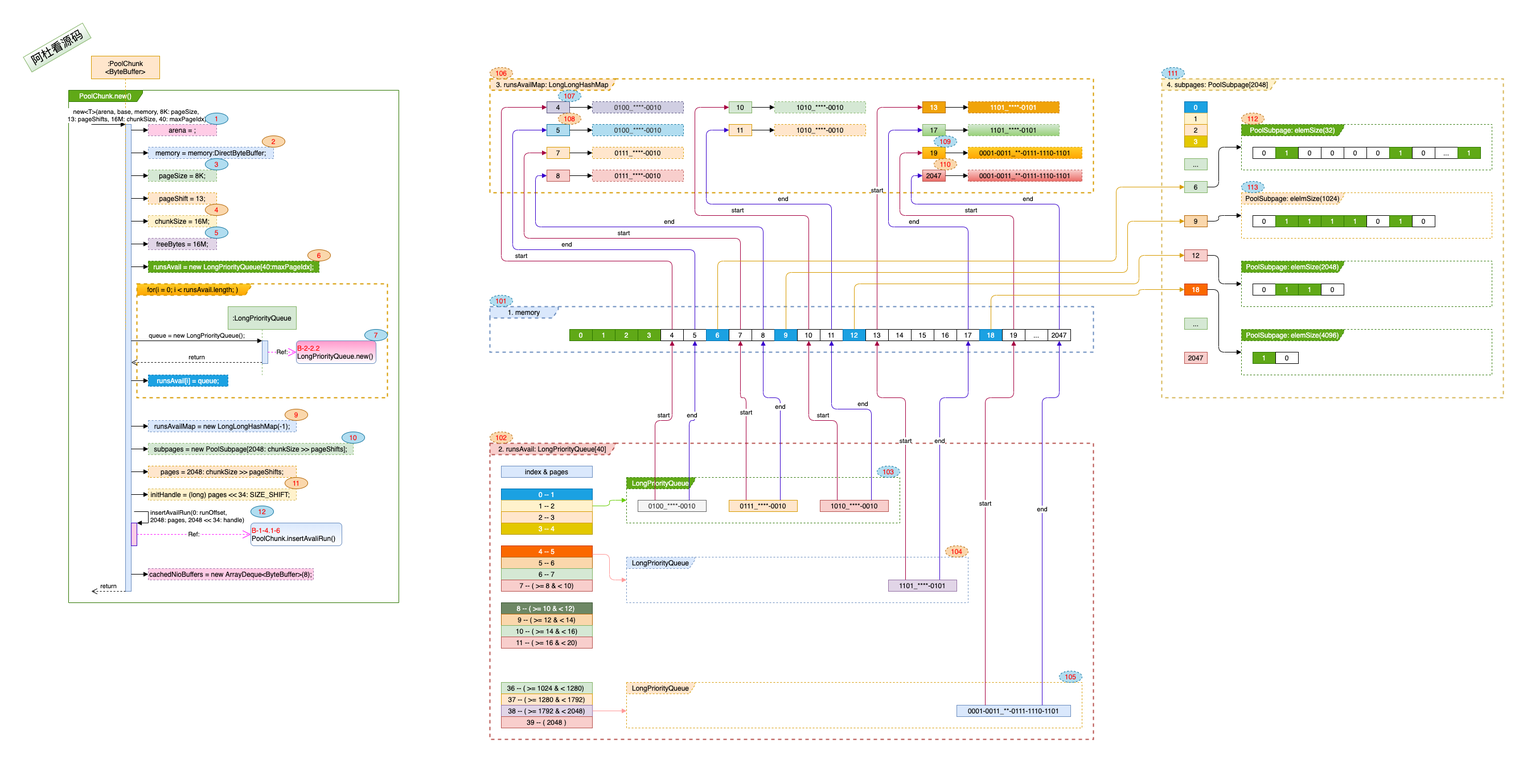
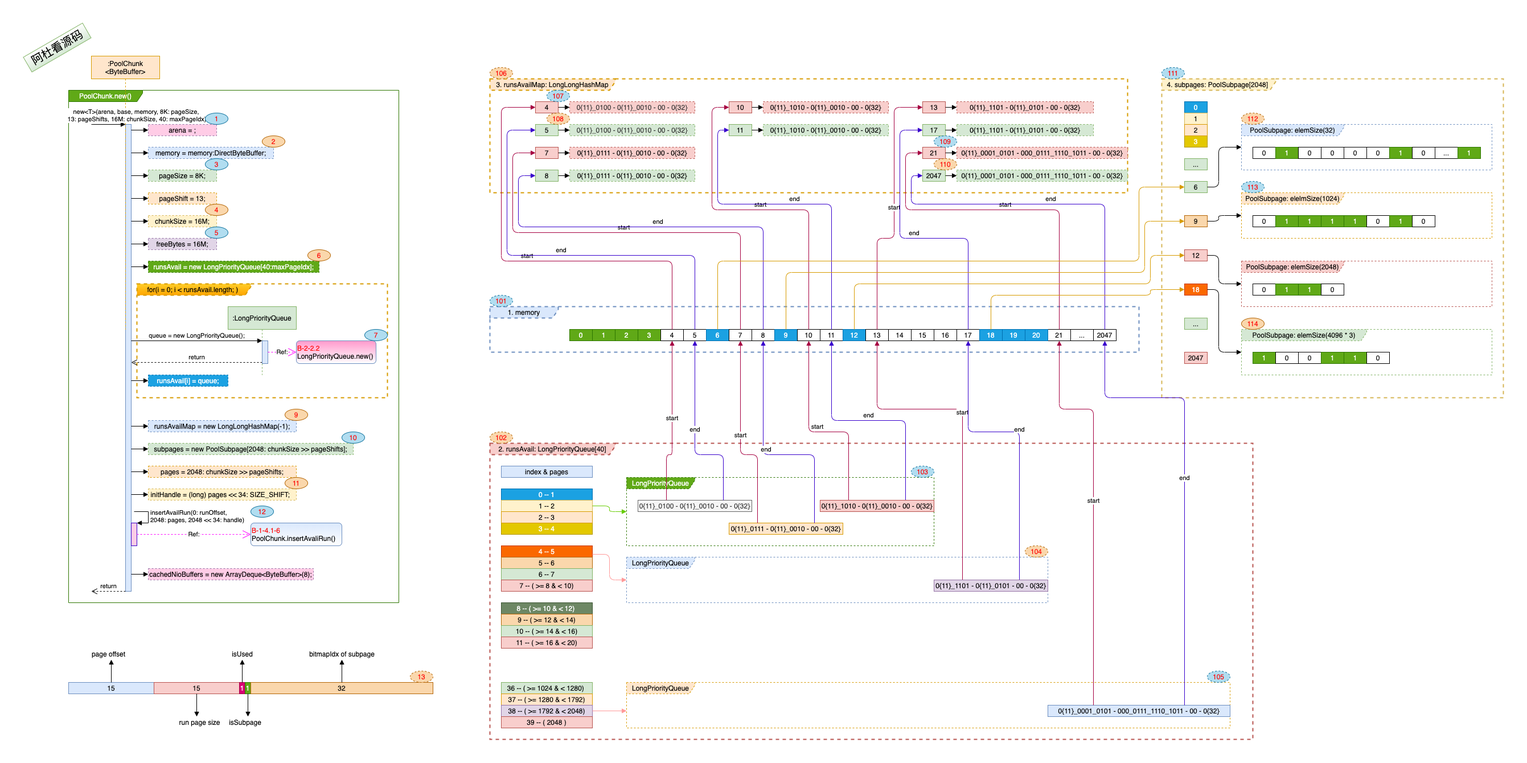
1. PoolChunk 数据结构部分大体完成.

diff --git a/netty_4.1.63/3.PoolChunk.html b/netty_4.1.63/3.PoolChunk.html
@@ -717,6 +717,6 @@ img {
 </style><title>3.PoolChunk</title>
 </head>
 <body class='typora-export'><div class='typora-export-content'>
-<div id='write'  class=''><h2 id='nettypooledbytebuf3poolchunk'><span>Netty_PooledByteBuf_3.PoolChunk</span></h2><h3 id='一-干什么'><span>一. 干什么?</span></h3><p><span>	</span><span>PoolChunk 是来管理一个楼层中的房间的, 就像个楼主. 概括起来如下: </span></p><ol start='' ><li><p><span>根据面积需求, 是给分配独立的区域还是共享区域.</span></p></li><li><p><span>不管是独立还是共享区域下面积的分配与回收.</span></p></li><li><p><span>管理的面积这么大, 怎么样可以让分配与回收的效率更高. </span></p><p>&nbsp;</p></li></ol><h3 id='二-打算怎么干'><span>二. 打算怎么干? </span></h3><ol start='' ><li><p><span>根据设定的阀值, 来区分是分配独立区域还是共享区域.</span></p></li><li><p><span>对外提供统一接口进行面积的分配与回收.</span></p></li><li><p><span>独立区域和共享区域都有唯一的门牌号并记录在案, 直接在账本上进行登入登出.</span></p><p>&nbsp;</p></li></ol><h3 id='三-具体实现'><span>三. 具体实现:</span></h3><ol start='' ><li><p><span>是分配独立区域还是共享区域?</span></p><blockquote><ul><li><span>需要的面积 &lt;= 16K + 12K (28K)时, 跟其它人一起共享, 在</span><em><span>PoolSubpage</span></em><span>里. </span></li><li><span>&gt;</span><span> 28K时, 大客户, 给独立的连续房间, 在</span><em><span>Run</span></em><span>里. </span></li></ul><div class="md-diagram-panel md-fences-adv-panel"><svg id="mermaidChart6" width="100%" xmlns="http://www.w3.org/2000/svg" xmlns:xlink="http://www.w3.org/1999/xlink" height="406.31561279296875" style="max-width: 242px; height: 446.31561279296875px;" viewBox="-8 -8 242 406.31561279296875" class="md-require-zoom-fix"><style>#mermaidChart6{font-family:sans-serif;font-size:16px;fill:#333;}#mermaidChart6 .error-icon{fill:#552222;}#mermaidChart6 .error-text{fill:#552222;stroke:#552222;}#mermaidChart6 .edge-thickness-normal{stroke-width:2px;}#mermaidChart6 .edge-thickness-thick{stroke-width:3.5px;}#mermaidChart6 .edge-pattern-solid{stroke-dasharray:0;}#mermaidChart6 .edge-pattern-dashed{stroke-dasharray:3;}#mermaidChart6 .edge-pattern-dotted{stroke-dasharray:2;}#mermaidChart6 .marker{fill:#333333;}#mermaidChart6 .marker.cross{stroke:#333333;}#mermaidChart6 svg{font-family:sans-serif;font-size:16px;}#mermaidChart6 .label{font-family:sans-serif;color:#333;}#mermaidChart6 .label text{fill:#333;}#mermaidChart6 .node rect,#mermaidChart6 .node circle,#mermaidChart6 .node ellipse,#mermaidChart6 .node polygon,#mermaidChart6 .node path{fill:#ECECFF;stroke:#9370DB;stroke-width:1px;}#mermaidChart6 .node .label{text-align:center;}#mermaidChart6 .node.clickable{cursor:pointer;}#mermaidChart6 .arrowheadPath{fill:#333333;}#mermaidChart6 .edgePath .path{stroke:#333333;stroke-width:1.5px;}#mermaidChart6 .flowchart-link{stroke:#333333;fill:none;}#mermaidChart6 .edgeLabel{background-color:#e8e8e8;text-align:center;}#mermaidChart6 .edgeLabel rect{opacity:0.5;background-color:#e8e8e8;fill:#e8e8e8;}#mermaidChart6 .cluster rect{fill:#ffffde;stroke:#aaaa33;stroke-width:1px;}#mermaidChart6 .cluster text{fill:#333;}#mermaidChart6 div.mermaidTooltip{position:absolute;text-align:center;max-width:200px;padding:2px;font-family:sans-serif;font-size:12px;background:hsl(80,100%,96.2745098039%);border:1px solid #aaaa33;border-radius:2px;pointer-events:none;z-index:100;}#mermaidChart6:root{--mermaid-font-family:sans-serif;}#mermaidChart6:root{--mermaid-alt-font-family:sans-serif;}#mermaidChart6 flowchart{fill:apa;}</style><g><g class="output"><g class="clusters"></g><g class="edgePaths"><g class="edgePath LS-A LE-C" id="L-A-C" style="opacity: 1;"><path class="path" d="M117,53L117,78L117.49999999999999,103.50000152587887" marker-end="url(#arrowhead117)" style="fill:none"></path><defs><marker id="arrowhead117" viewBox="0 0 10 10" refX="9" refY="5" markerUnits="strokeWidth" markerWidth="8" markerHeight="6" orient="auto"><path d="M 0 0 L 10 5 L 0 10 z" class="arrowheadPath" style="stroke-width: 1px; stroke-dasharray: 1px, 0px;"></path></marker></defs></g><g class="edgePath LS-C LE-D" id="L-C-D" style="opacity: 1;"><path class="path" d="M87.71078573580213,241.02641226168106L50,307.8156280517578L50,345.3156280517578" marker-end="url(#arrowhead118)" style="fill:none"></path><defs><marker id="arrowhead118" viewBox="0 0 10 10" refX="9" refY="5" markerUnits="strokeWidth" markerWidth="8" markerHeight="6" orient="auto"><path d="M 0 0 L 10 5 L 0 10 z" class="arrowheadPath" style="stroke-width: 1px; stroke-dasharray: 1px, 0px;"></path></marker></defs></g><g class="edgePath LS-C LE-E" id="L-C-E" style="opacity: 1;"><path class="path" d="M147.28921317751553,241.0264102966056L184,307.8156280517578L184,345.3156280517578" marker-end="url(#arrowhead119)" style="fill:none"></path><defs><marker id="arrowhead119" viewBox="0 0 10 10" refX="9" refY="5" markerUnits="strokeWidth" markerWidth="8" markerHeight="6" orient="auto"><path d="M 0 0 L 10 5 L 0 10 z" class="arrowheadPath" style="stroke-width: 1px; stroke-dasharray: 1px, 0px;"></path></marker></defs></g></g><g class="edgeLabels"><g class="edgeLabel" transform="" style="opacity: 1;"><g transform="translate(0,0)" class="label"><rect rx="0" ry="0" width="0" height="0"></rect><foreignObject width="0" height="0"><div xmlns="http://www.w3.org/1999/xhtml" style="display: inline-block; white-space: nowrap;"><span></span></div></foreignObject></g></g><g class="edgeLabel" transform="translate(50,307.8156280517578)" style="opacity: 1;"><g transform="translate(-25.8046875,-12.5)" class="label"><rect rx="0" ry="0" width="51.609375" height="25"></rect><foreignObject width="51.609375" height="25"><div xmlns="http://www.w3.org/1999/xhtml" style="display: inline-block; white-space: nowrap;"><span>&lt;= 28K</span></div></foreignObject></g></g><g class="edgeLabel" transform="translate(184,307.8156280517578)" style="opacity: 1;"><g transform="translate(-21.1328125,-12.5)" class="label"><rect rx="0" ry="0" width="42.265625" height="25"></rect><foreignObject width="42.265625" height="25"><div xmlns="http://www.w3.org/1999/xhtml" style="display: inline-block; white-space: nowrap;"><span>&gt; 28K</span></div></foreignObject></g></g></g><g class="nodes"><g class="node default" id="flowchart-A-143" transform="translate(117,30.5)" style="opacity: 1;"><rect rx="0" ry="0" x="-44.2265625" y="-22.5" width="88.453125" height="45" class="label-container" style="fill:pink;stroke:#333;stroke-width:1px    ;"></rect><g class="label" transform="translate(0,0)"><g transform="translate(-34.2265625,-12.5)"><foreignObject width="68.453125" height="25"><div xmlns="http://www.w3.org/1999/xhtml" style="display: inline-block; white-space: nowrap;">客户来啦!</div></foreignObject></g></g></g><g class="node default" id="flowchart-C-145" transform="translate(117,186.6578140258789)" style="opacity: 1;"><polygon points="83.6578125,0 167.315625,-83.6578125 83.6578125,-167.315625 0,-83.6578125" transform="translate(-83.6578125,83.6578125)" class="label-container" style="fill:#bbf;stroke:#f66;stroke-width:1px;stroke-dasharray: 4 8;"></polygon><g class="label" transform="translate(0,0)"><g style="color:#fff;" transform="translate(-60.453125,-12.5)"><foreignObject width="120.90625" height="25"><div xmlns="http://www.w3.org/1999/xhtml" style="display: inline-block; white-space: nowrap;">您需要多大空间?</div></foreignObject></g></g></g><g class="node default" id="flowchart-D-147" transform="translate(50,367.8156280517578)" style="opacity: 1;"><rect rx="0" ry="0" x="-42" y="-22.5" width="84" height="45" class="label-container" style="fill:orange;stroke:#333;stroke-width:1px  ;"></rect><g class="label" transform="translate(0,0)"><g transform="translate(-32,-12.5)"><foreignObject width="64" height="25"><div xmlns="http://www.w3.org/1999/xhtml" style="display: inline-block; white-space: nowrap;">共享区域</div></foreignObject></g></g></g><g class="node default" id="flowchart-E-149" transform="translate(184,367.8156280517578)" style="opacity: 1;"><rect rx="0" ry="0" x="-42" y="-22.5" width="84" height="45" class="label-container" style="fill:;stroke:#333;stroke-width:1px ;"></rect><g class="label" transform="translate(0,0)"><g transform="translate(-32,-12.5)"><foreignObject width="64" height="25"><div xmlns="http://www.w3.org/1999/xhtml" style="display: inline-block; white-space: nowrap;">独享空间</div></foreignObject></g></g></g></g></g></g></svg></div></blockquote></li><li><p><span>分配与回收之前, 先来看一下PoolChunk初始化的数据结构.</span></p><p><img src="./images/3.PooledByteBufAllocator/2.DataStructure-2.1.PoolChunk.png" referrerpolicy="no-referrer"></p></li></ol></div></div>
+<div id='write'  class=''><h2 id='nettypooledbytebuf3poolchunk'><span>Netty_PooledByteBuf_3.PoolChunk</span></h2><h3 id='一-干什么'><span>一. 干什么?</span></h3><p><span>	</span><span>PoolChunk 是来管理一个楼层中的房间的, 就像个楼主. 概括起来如下: </span></p><ol start='' ><li><p><span>根据面积需求, 是给分配独立的区域还是共享区域.</span></p></li><li><p><span>不管是独立还是共享区域下面积的分配与回收.</span></p></li><li><p><span>管理的面积这么大, 怎么样可以让分配与回收的效率更高. </span></p><p>&nbsp;</p></li></ol><h3 id='二-打算怎么干'><span>二. 打算怎么干? </span></h3><ol start='' ><li><p><span>根据设定的阀值, 来区分是分配独立区域还是共享区域.</span></p></li><li><p><span>对外提供统一接口进行面积的分配与回收.</span></p></li><li><p><span>独立区域和共享区域都有唯一的门牌号并记录在案, 直接在账本上进行登入登出.</span></p><p>&nbsp;</p></li></ol><h3 id='三-具体实现'><span>三. 具体实现:</span></h3><ol start='' ><li><h4 id='是分配独立区域还是共享区域'><span>是分配独立区域还是共享区域?</span></h4><blockquote><ul><li><span>需要的面积 &lt;= 16K + 12K (28K)时, 跟其它人一起共享, 在</span><em><span>PoolSubpage</span></em><span>里. </span></li><li><span>&gt;</span><span> 28K时, 大客户, 给独立的连续房间, 在</span><em><span>Run</span></em><span>里. </span></li></ul><div class="md-diagram-panel md-fences-adv-panel"><svg id="mermaidChart3" width="100%" xmlns="http://www.w3.org/2000/svg" xmlns:xlink="http://www.w3.org/1999/xlink" height="406.31561279296875" style="max-width: 242px; height: 446.31561279296875px;" viewBox="-8 -8 242 406.31561279296875" class="md-require-zoom-fix"><style>#mermaidChart3{font-family:sans-serif;font-size:16px;fill:#333;}#mermaidChart3 .error-icon{fill:#552222;}#mermaidChart3 .error-text{fill:#552222;stroke:#552222;}#mermaidChart3 .edge-thickness-normal{stroke-width:2px;}#mermaidChart3 .edge-thickness-thick{stroke-width:3.5px;}#mermaidChart3 .edge-pattern-solid{stroke-dasharray:0;}#mermaidChart3 .edge-pattern-dashed{stroke-dasharray:3;}#mermaidChart3 .edge-pattern-dotted{stroke-dasharray:2;}#mermaidChart3 .marker{fill:#333333;}#mermaidChart3 .marker.cross{stroke:#333333;}#mermaidChart3 svg{font-family:sans-serif;font-size:16px;}#mermaidChart3 .label{font-family:sans-serif;color:#333;}#mermaidChart3 .label text{fill:#333;}#mermaidChart3 .node rect,#mermaidChart3 .node circle,#mermaidChart3 .node ellipse,#mermaidChart3 .node polygon,#mermaidChart3 .node path{fill:#ECECFF;stroke:#9370DB;stroke-width:1px;}#mermaidChart3 .node .label{text-align:center;}#mermaidChart3 .node.clickable{cursor:pointer;}#mermaidChart3 .arrowheadPath{fill:#333333;}#mermaidChart3 .edgePath .path{stroke:#333333;stroke-width:1.5px;}#mermaidChart3 .flowchart-link{stroke:#333333;fill:none;}#mermaidChart3 .edgeLabel{background-color:#e8e8e8;text-align:center;}#mermaidChart3 .edgeLabel rect{opacity:0.5;background-color:#e8e8e8;fill:#e8e8e8;}#mermaidChart3 .cluster rect{fill:#ffffde;stroke:#aaaa33;stroke-width:1px;}#mermaidChart3 .cluster text{fill:#333;}#mermaidChart3 div.mermaidTooltip{position:absolute;text-align:center;max-width:200px;padding:2px;font-family:sans-serif;font-size:12px;background:hsl(80,100%,96.2745098039%);border:1px solid #aaaa33;border-radius:2px;pointer-events:none;z-index:100;}#mermaidChart3:root{--mermaid-font-family:sans-serif;}#mermaidChart3:root{--mermaid-alt-font-family:sans-serif;}#mermaidChart3 flowchart{fill:apa;}</style><g><g class="output"><g class="clusters"></g><g class="edgePaths"><g class="edgePath LS-A LE-C" id="L-A-C" style="opacity: 1;"><path class="path" d="M117,53L117,78L117.49999999999999,103.50000152587887" marker-end="url(#arrowhead66)" style="fill:none"></path><defs><marker id="arrowhead66" viewBox="0 0 10 10" refX="9" refY="5" markerUnits="strokeWidth" markerWidth="8" markerHeight="6" orient="auto"><path d="M 0 0 L 10 5 L 0 10 z" class="arrowheadPath" style="stroke-width: 1px; stroke-dasharray: 1px, 0px;"></path></marker></defs></g><g class="edgePath LS-C LE-D" id="L-C-D" style="opacity: 1;"><path class="path" d="M87.71078573580213,241.02641226168106L50,307.8156280517578L50,345.3156280517578" marker-end="url(#arrowhead67)" style="fill:none"></path><defs><marker id="arrowhead67" viewBox="0 0 10 10" refX="9" refY="5" markerUnits="strokeWidth" markerWidth="8" markerHeight="6" orient="auto"><path d="M 0 0 L 10 5 L 0 10 z" class="arrowheadPath" style="stroke-width: 1px; stroke-dasharray: 1px, 0px;"></path></marker></defs></g><g class="edgePath LS-C LE-E" id="L-C-E" style="opacity: 1;"><path class="path" d="M147.28921317751553,241.0264102966056L184,307.8156280517578L184,345.3156280517578" marker-end="url(#arrowhead68)" style="fill:none"></path><defs><marker id="arrowhead68" viewBox="0 0 10 10" refX="9" refY="5" markerUnits="strokeWidth" markerWidth="8" markerHeight="6" orient="auto"><path d="M 0 0 L 10 5 L 0 10 z" class="arrowheadPath" style="stroke-width: 1px; stroke-dasharray: 1px, 0px;"></path></marker></defs></g></g><g class="edgeLabels"><g class="edgeLabel" transform="" style="opacity: 1;"><g transform="translate(0,0)" class="label"><rect rx="0" ry="0" width="0" height="0"></rect><foreignObject width="0" height="0"><div xmlns="http://www.w3.org/1999/xhtml" style="display: inline-block; white-space: nowrap;"><span></span></div></foreignObject></g></g><g class="edgeLabel" transform="translate(50,307.8156280517578)" style="opacity: 1;"><g transform="translate(-25.8046875,-12.5)" class="label"><rect rx="0" ry="0" width="51.609375" height="25"></rect><foreignObject width="51.609375" height="25"><div xmlns="http://www.w3.org/1999/xhtml" style="display: inline-block; white-space: nowrap;"><span>&lt;= 28K</span></div></foreignObject></g></g><g class="edgeLabel" transform="translate(184,307.8156280517578)" style="opacity: 1;"><g transform="translate(-21.1328125,-12.5)" class="label"><rect rx="0" ry="0" width="42.265625" height="25"></rect><foreignObject width="42.265625" height="25"><div xmlns="http://www.w3.org/1999/xhtml" style="display: inline-block; white-space: nowrap;"><span>&gt; 28K</span></div></foreignObject></g></g></g><g class="nodes"><g class="node default" id="flowchart-A-77" transform="translate(117,30.5)" style="opacity: 1;"><rect rx="0" ry="0" x="-44.2265625" y="-22.5" width="88.453125" height="45" class="label-container" style="fill:pink;stroke:#333;stroke-width:1px    ;"></rect><g class="label" transform="translate(0,0)"><g transform="translate(-34.2265625,-12.5)"><foreignObject width="68.453125" height="25"><div xmlns="http://www.w3.org/1999/xhtml" style="display: inline-block; white-space: nowrap;">客户来啦!</div></foreignObject></g></g></g><g class="node default" id="flowchart-C-79" transform="translate(117,186.6578140258789)" style="opacity: 1;"><polygon points="83.6578125,0 167.315625,-83.6578125 83.6578125,-167.315625 0,-83.6578125" transform="translate(-83.6578125,83.6578125)" class="label-container" style="fill:#bbf;stroke:#f66;stroke-width:1px;stroke-dasharray: 4 8;"></polygon><g class="label" transform="translate(0,0)"><g style="color:#fff;" transform="translate(-60.453125,-12.5)"><foreignObject width="120.90625" height="25"><div xmlns="http://www.w3.org/1999/xhtml" style="display: inline-block; white-space: nowrap;">您需要多大空间?</div></foreignObject></g></g></g><g class="node default" id="flowchart-D-81" transform="translate(50,367.8156280517578)" style="opacity: 1;"><rect rx="0" ry="0" x="-42" y="-22.5" width="84" height="45" class="label-container" style="fill:orange;stroke:#333;stroke-width:1px  ;"></rect><g class="label" transform="translate(0,0)"><g transform="translate(-32,-12.5)"><foreignObject width="64" height="25"><div xmlns="http://www.w3.org/1999/xhtml" style="display: inline-block; white-space: nowrap;">共享区域</div></foreignObject></g></g></g><g class="node default" id="flowchart-E-83" transform="translate(184,367.8156280517578)" style="opacity: 1;"><rect rx="0" ry="0" x="-42" y="-22.5" width="84" height="45" class="label-container" style="fill:;stroke:#333;stroke-width:1px ;"></rect><g class="label" transform="translate(0,0)"><g transform="translate(-32,-12.5)"><foreignObject width="64" height="25"><div xmlns="http://www.w3.org/1999/xhtml" style="display: inline-block; white-space: nowrap;">独享空间</div></foreignObject></g></g></g></g></g></g></svg></div></blockquote></li><li><h4 id='分配与回收之前-先来看一下poolchunk初始化的数据结构'><span>分配与回收之前, 先来看一下PoolChunk初始化的数据结构.</span></h4><blockquote><p><img src="./images/3.PooledByteBufAllocator/2.DataStructure-2.1.PoolChunk.png" referrerpolicy="no-referrer" alt="PoolChunk数据结构"></p><h5 id='构造方法初始化过程'><span>构造方法初始化过程:</span></h5><ol start='' ><li><p><span>图中标号: </span><strong><span>1</span></strong><span> , </span><u><span>arena</span></u><span>该楼层在那一幢建筑内.</span></p></li><li><p><span>图中标号: </span><strong><span>2</span></strong><span>, </span><u><span>memory</span></u><span> 对应的内存对象.</span></p></li><li><p><span>图中标号: </span><strong><span>3</span></strong><span>, </span><u><span>pageSize</span></u><span> 一个房间有多大, 这里是8K.</span></p></li><li><p><span>图中标号: </span><strong><span>4</span></strong><span> , </span><u><span>chunkSize</span></u><span> </span><em><span>PoolChunk</span></em><span> 对应的楼层有多大面积.</span></p></li><li><p><span>图中标号: </span><strong><span>5</span></strong><span>, </span><u><span>freeBytes</span></u><span> 还有多少面积是可以分配的.</span></p></li><li><p><span>图中标号: </span><strong><span>6</span></strong><span>, </span><u><span>runsAvail</span></u><span> 对应的 </span><em><span>LongPriorityQueue</span></em><span>[40:</span><strong><span>maxPageIdx</span></strong><span>] 数组, 对应的数组大小为</span><em><span>SizeClasses</span></em><span>中的</span><u><span>pageIdx2sizeTab</span></u><span> 数据的大小.</span></p></li><li><p><span>图中标号: </span><strong><span>7</span></strong><span>, </span><em><span>LongPriorityQueue</span></em><span>是提供排序的队列.</span></p></li><li><p><span>图中标号: </span><strong><span>9</span></strong><span>, </span><u><span>runsAvailMap</span></u><span> 存放的是空闲房间的起始编号. </span></p></li><li><p><span>图中标号: </span><strong><span>10</span></strong><span>, </span><u><span>subpages</span></u><span>: </span><em><span>PoolSubpage</span></em><span>[2048] 中存放所有共享区域对象PoolSubpage, 只是这里按房间数计算的subpages数组大小, 但并不是每个数组的值都会是</span><em><span>PoolSubapge</span></em><span>对象, 也就是这个数组在大对象的场景中会有相当多的部分不会被填满. </span></p></li><li><p><span>图中标号: </span><strong><span>11</span></strong><span>, 初始化的</span><u><span>handle</span></u><span>, 表明当前的</span><em><span>PoolChunk</span></em><span>的一个空闲的空间.</span></p></li><li><p><span>图中标号: </span><strong><span>12</span></strong><span>, 将初始化的</span><u><span>handle</span></u><span>更新到管理信息中, 如: </span><u><span>runsAvail</span></u><span>, </span><u><span>runsAvailMap</span></u><span>. </span></p></li><li><p><span>图中标号: </span><strong><span>13</span></strong><span>, </span><u><span>handle</span></u><span>由一个long来表示, 将long中的64个bit位划分成了四个部分. 用来标识已经分配的空间或者空置的空间.</span></p><ul><li><p><span>各个部分的信息:</span></p><figure><table><thead><tr><th style='text-align:center;' ><span>Bit 位</span></th><th style='text-align:center;' ><span>源码标识</span></th><th style='text-align:center;' ><span>含义</span></th></tr></thead><tbody><tr><td style='text-align:center;' ><span>0-31, 共 32bit</span></td><td style='text-align:center;' ><span>bitmapIdx of subpage, zero if it&#39;s not subpage</span></td><td style='text-align:center;' ><span>房间标号,</span></td></tr><tr><td style='text-align:center;' ><span>32, 共 1bit</span></td><td style='text-align:center;' ><span>isSubpage</span></td><td style='text-align:center;' ><span>是否是共享区域</span></td></tr><tr><td style='text-align:center;' ><span>33, 共 1bit</span></td><td style='text-align:center;' ><span>isUsed</span></td><td style='text-align:center;' ><span>是否已经分配</span></td></tr><tr><td style='text-align:center;' ><span>34-48, 共15bit</span></td><td style='text-align:center;' ><span>number of pages</span></td><td style='text-align:center;' ><span>连续的房间有几间</span></td></tr><tr><td style='text-align:center;' ><span>49-63, 共15bit</span></td><td style='text-align:center;' ><span>page offset in the chunk</span></td><td style='text-align:center;' ><span>从第几间开始</span></td></tr></tbody></table></figure></li><li><p><span>例如: </span></p><figure><table><thead><tr><th style='text-align:center;' ><span>handle</span></th><th style='text-align:center;' ><span>说明</span></th></tr></thead><tbody><tr><td style='text-align:center;' ><span>0{11}_</span><strong><span>0000</span></strong><span> - 0{11}</span><span>_</span><strong><span>0100</span></strong><span> - </span><strong><span>10</span></strong><span> - 0{24}</span><span>_</span><span>0000</span><span>_</span><span>0000</span></td><td style='text-align:center;' ><span>0{11}</span><span>_</span><strong><span>0000</span></strong><span> -- 从第0个房间开始, 0{11}</span><span>_</span><strong><span>0100</span></strong><span> -- 连续4个房间, </span><br><strong><span>10</span></strong><span> -- 处于使用状态, 独立区域.</span></td></tr><tr><td style='text-align:center;' ><span>0{11}</span><span>_</span><strong><span>0100</span></strong><span> - 0{11}_</span><strong><span>0010</span></strong><span> - </span><strong><span>00</span></strong><span> - 0{24}</span><span>_</span><span>0000</span><span>_</span><span>0000</span></td><td style='text-align:center;' ><span>0{11}</span><span>_</span><strong><span>0100</span></strong><span> -- 从第4个房间开始, 0{11}</span><span>_</span><strong><span>0010</span></strong><span> -- 连续2个房间, </span><br><strong><span>00</span></strong><span> -- 处于空置状态.</span></td></tr><tr><td style='text-align:center;' ><span>0{11}</span><span>_</span><strong><span>1001</span></strong><span> - 0{11}_</span><strong><span>0001</span></strong><span> - </span><strong><span>11</span></strong><span> - 0{24}</span><span>_</span><strong><span>0100</span><span>_</span><span>0001</span></strong></td><td style='text-align:center;' ><span>0{11}</span><span>_</span><strong><span>1001</span></strong><span> -- 从第9个房间开始, 0{11}</span><span>_</span><strong><span>0001</span></strong><span> -- 连续1个房间, </span><br><strong><span>11</span></strong><span> -- 处于使用状态, 共享区域, 共享区域中的第1排第一个座位.</span></td></tr><tr><td style='text-align:center;' ><span>0{11}_</span><strong><span>0001_0101</span></strong><span> - 000</span><span>_</span><strong><span>0111_1110_1011</span></strong><span> - </span><strong><span>00</span></strong><span> - 0{32}</span></td><td style='text-align:center;' ><span>0{11}_</span><strong><span>0001_0101</span></strong><span> -- 从第21个房间开始, 000</span><span>_</span><strong><span>0111_1110_1011</span></strong><span> -- 连续2027个房间, </span><br><strong><span>00</span></strong><span> -- 处于空置状态.</span></td></tr></tbody></table></figure></li></ul></li></ol><p>&nbsp;</p><h5 id='管理信息'><span>管理信息: </span></h5><ol start='' ><li><p><span>图中标号: </span><strong><span>101</span></strong><span>, 将真正分配的内存空间(</span><u><span>memory</span></u><span>)按房间进行划分, 每一个房间给一个门牌号, 从0开始, 默认是到2047号.</span></p></li><li><p><span>图中标号: </span><strong><span>102</span></strong><span>, </span><u><span>runsAvail</span></u><span>中存放连续房间的信息. 先根据连续房间的个数查找对应的runsAvail的index下标, 然后将描述这个区域的handle值放在index下标对应的</span><em><span>LongPriorityQueue</span></em><span>中.</span></p><ul><li><p><u><span>runsAvail</span></u><span>每个index对应的连续房间数(pages)是一个区间(range), </span></p><figure><table><thead><tr><th style='text-align:center;' ><span>runsAvail index</span></th><th style='text-align:center;' ><span>对应连续pages, 表示最小有多少个连续房间.</span></th></tr></thead><tbody><tr><td style='text-align:center;' ><span>3</span></td><td style='text-align:center;' ><span>pages &gt;= 4 &amp; &lt; 5</span></td></tr><tr><td style='text-align:center;' ><span>8</span></td><td style='text-align:center;' ><span>pages &gt;= 10 &amp; &lt; 12</span></td></tr><tr><td style='text-align:center;' ><span>38</span></td><td style='text-align:center;' ><span>pages &gt;= 1792 &amp; &lt; 2048</span></td></tr><tr><td style='text-align:center;' ><span>39</span></td><td style='text-align:center;' ><span>pages = 2048</span></td></tr></tbody></table></figure></li><li><p><u><span>runsAvail</span></u><span>只存放空置房间的信息, 按连续房间的大小, 对应存放在index下标对应的</span><em><span>LongPriorityQueue</span></em><span>中. 例如图中: 已经</span><u><span>占用</span></u><span>的房间分别是: </span><u><span>0 - 3</span></u><span> -- 分配成</span><u><span>独立</span></u><span>区域. 房间 </span><u><span>6, 9, 12, 18</span></u><span> 被分配为</span><u><span>共享</span></u><span>区域.空置的房间</span><strong><span>4-5</span></strong><span>, </span><strong><span>7-8</span></strong><span>, </span><strong><span>10-11</span></strong><span>, </span><strong><span>19-2047</span></strong><span> .</span></p><figure><table><thead><tr><th style='text-align:center;' ><span>空置房间(起 止)</span></th><th style='text-align:center;' ><span>空置房间数</span></th><th style='text-align:center;' ><span>对应的runsAvail.index</span></th><th style='text-align:center;' ><span>handle标识</span></th></tr></thead><tbody><tr><td style='text-align:center;' ><span>4 - 5, 图中标号: </span><strong><span>103</span></strong></td><td style='text-align:center;' ><span>2</span></td><td style='text-align:center;' ><span>1</span></td><td style='text-align:center;' ><span>0{11}</span><span>_</span><span>0100 - 0{11}_0010 - 00 - 0{32}</span></td></tr><tr><td style='text-align:center;' ><span>7 - 8, 图中标号: </span><strong><span>103</span></strong></td><td style='text-align:center;' ><span>2</span></td><td style='text-align:center;' ><span>1</span></td><td style='text-align:center;' ><span>0{11}</span><span>_</span><span>0111 - 0{11}_0010 - 00 - 0{32}</span></td></tr><tr><td style='text-align:center;' ><span>10 - 11, 图中标号: </span><strong><span>103</span></strong></td><td style='text-align:center;' ><span>2</span></td><td style='text-align:center;' ><span>1</span></td><td style='text-align:center;' ><span>0{11}</span><span>_</span><span>1010 - 0{11}_0010 - 00 - 0{32}</span></td></tr><tr><td style='text-align:center;' ><span>13-17, 图中标号: </span><strong><span>104</span></strong></td><td style='text-align:center;' ><span>5</span></td><td style='text-align:center;' ><span>4</span></td><td style='text-align:center;' ><span>0{11}</span><span>_</span><span>1101 - 0{11}_0101 - 00 - 0{32}</span></td></tr><tr><td style='text-align:center;' ><span>21 -2047, 图中标号: </span><strong><span>105</span></strong></td><td style='text-align:center;' ><span>2027</span></td><td style='text-align:center;' ><span>38</span></td><td style='text-align:center;' ><span>0{11}_0001_0101 - 000_0111_1110_1011 - 00 - 0{32}</span></td></tr></tbody></table></figure><p>&nbsp;</p></li></ul></li><li><p><span>图中标号: </span><strong><span>106</span></strong><span>, </span><u><span>runsAvailMap</span></u><span>: </span><em><span>LongLongHashMap</span></em><span> 存放的是空置空间的起止信息. 例如:</span></p><figure><table><thead><tr><th style='text-align:center;' ><span>Key</span></th><th style='text-align:center;' ><span>Key 说明</span></th><th style='text-align:center;' ><span>Value -- handle信息</span></th></tr></thead><tbody><tr><td style='text-align:center;' ><span>4</span></td><td style='text-align:center;' ><span> 图中标号: </span><strong><span>107</span></strong><span>, 空置空间 4 - 5, 从门牌号: 4开始</span></td><td style='text-align:center;' ><span>0{11}</span><span>_</span><span>0100 - 0{11}_0010 - 00 - 0{32}</span></td></tr><tr><td style='text-align:center;' ><span>5</span></td><td style='text-align:center;' ><span>图中标号: </span><strong><span>108</span></strong><span>, 空置空间 4 - 5, 到门牌号: 5结束</span></td><td style='text-align:center;' ><span>0{11}</span><span>_</span><span>0100 - 0{11}_0010 - 00 - 0{32}</span></td></tr><tr><td style='text-align:center;' >&nbsp;</td><td style='text-align:center;' >&nbsp;</td><td style='text-align:center;' >&nbsp;</td></tr><tr><td style='text-align:center;' ><span>21</span></td><td style='text-align:center;' ><span>图中标号: </span><strong><span>109</span></strong><span>, 空置空间 21 -2047, 从门牌号: 21个开始</span></td><td style='text-align:center;' ><span>0{11}_0001_0101 - 000_0111_1110_1011 - 00 - 0{32}</span></td></tr><tr><td style='text-align:center;' ><span>2047</span></td><td style='text-align:center;' ><span>图中标号: </span><strong><span>110</span></strong><span>, 空置空间 21 -2047, 到门牌号: 2047结束</span></td><td style='text-align:center;' ><span>0{11}_0001_0101 - 000_0111_1110_1011 - 00 - 0{32}</span></td></tr></tbody></table></figure><p><span>注: runsAvailMap的一个应用场景是查找与当前的区域相临的区域是空置还是已经分配的, 用在区域中.</span></p></li><li><p><span>图中标号: </span><strong><span>111</span></strong><span>, subpages: PoolSubpage[2048], 这里按房间的个数来初始化数组, 实际上可能有很多个下标对应的null值. 当一个共享区域(</span><em><span>PoolSubpage</span></em><span>)被分配时, 可能是多个房间划分到这个共享区域下, 共享区域开始于那个门牌号, 那么就存放在门牌号对应的index下标下. 例如:</span></p><figure><table><thead><tr><th style='text-align:center;' ><u><span>subpages</span></u><span>.index</span></th><th style='text-align:center;' ><span>对应共享区域</span></th><th style='text-align:center;' ><em><span>PoolSubpage</span></em></th></tr></thead><tbody><tr><td style='text-align:center;' ><span>6</span></td><td style='text-align:center;' ><span>图中标号: </span><strong><span>112</span></strong><span>, 共享区域 6 - 6, 从门牌号: 6开始</span></td><td style='text-align:center;' ><span>每个elemSize为32, 共享区域为8K</span></td></tr><tr><td style='text-align:center;' ><span>9</span></td><td style='text-align:center;' ><span>图中标号: </span><strong><span>113</span></strong><span>, 共享区域 9 - 9, 从门牌号: 9开始</span></td><td style='text-align:center;' ><span>每个elemSize为1024, 共享区域为8K</span></td></tr><tr><td style='text-align:center;' ><span>18</span></td><td style='text-align:center;' ><span>图中标号: </span><strong><span>114</span></strong><span>, 共享区域 18 - 20, 从门牌号: 18开始</span></td><td style='text-align:center;' ><span>每个elemSize为1024 * 3, 共享区域为24K</span></td></tr></tbody></table></figure><p>&nbsp;</p></li><li><p><span>图中标号: </span><strong><span>10</span></strong></p></li><li><p><span>图中标号: </span><strong><span>10</span></strong></p></li><li><p><span>图中标号: </span><strong><span>10</span></strong></p></li><li><p>&nbsp;</p></li></ol></blockquote></li></ol><p>&nbsp;</p></div></div>
 </body>
 </html>

diff --git a/netty_4.1.63/3.PoolChunk.md b/netty_4.1.63/3.PoolChunk.md
@@ -24,7 +24,8 @@
 
 ### 三. 具体实现:
 
-1. 是分配独立区域还是共享区域?
+1. #### 是分配独立区域还是共享区域?
+   
     > - 需要的面积 <= 16K + 12K (28K)时, 跟其它人一起共享, 在*PoolSubpage*里. 
     > - \> 28K时, 大客户, 给独立的连续房间, 在*Run*里. 
     > ```mermaid
@@ -38,17 +39,112 @@
     > style D fill:orange,stroke:#333,stroke-width:1px  
     > style E fill:,stroke:#333,stroke-width:1px 
     > ```
-
-2. 分配与回收之前, 先来看一下PoolChunk初始化的数据结构.
+    
+2. #### 分配与回收之前, 先来看一下PoolChunk初始化的数据结构.
 
     > ![PoolChunk数据结构](./images/3.PooledByteBufAllocator/2.DataStructure-2.1.PoolChunk.png)
     >
-    > 各项注解:
+    > ##### 构造方法初始化过程:
     >
     > 1. 图中标号: **1** , <u>arena</u>该楼层在那一幢建筑内.
-    > 2. 图中标号: **2**, memory 对应的内存对象.
-    > 3. 图中标号: **3**, pageSize 一个房间有多大, 这里是8K.
-    > 4. 图中标号: **4** , chunkSize PoolChunk 对应的楼层有多大面积.
-    > 5. 图中标号: **5**, freeBytes 还有多少面积是可以分配的.
-    > 6. 图中标号: **6**, runsAvail 对应的 LongPriorityQueue[40:maxPageIdx] 数组, 对应的数组大小为SizeClasses中的pageIdx2sizeTab 数据的大小, 为独立空间下对应的所有分档, 
+    >
+    > 2. 图中标号: **2**, <u>memory</u> 对应的内存对象.
+    >
+    > 3. 图中标号: **3**, <u>pageSize</u> 一个房间有多大, 这里是8K.
+    >
+    > 4. 图中标号: **4** , <u>chunkSize</u> *PoolChunk* 对应的楼层有多大面积.
+    >
+    > 5. 图中标号: **5**, <u>freeBytes</u> 还有多少面积是可以分配的.
+    >
+    > 6. 图中标号: **6**, <u>runsAvail</u> 对应的 *LongPriorityQueue*[40:**maxPageIdx**] 数组, 对应的数组大小为*SizeClasses*中的<u>pageIdx2sizeTab</u> 数据的大小.
+    >
+    > 7. 图中标号: **7**, *LongPriorityQueue*是提供排序的队列.
+    >
+    > 8. 图中标号: **9**, <u>runsAvailMap</u> 存放的是空闲房间的起始编号. 
+    >
+    > 9. 图中标号: **10**, <u>subpages</u>: *PoolSubpage*[2048] 中存放所有共享区域对象PoolSubpage, 只是这里按房间数计算的subpages数组大小, 但并不是每个数组的值都会是*PoolSubapge*对象, 也就是这个数组在大对象的场景中会有相当多的部分不会被填满. 
+    >
+    > 10. 图中标号: **11**, 初始化的<u>handle</u>, 表明当前的*PoolChunk*的一个空闲的空间.
+    >
+    > 11. 图中标号: **12**, 将初始化的<u>handle</u>更新到管理信息中, 如: <u>runsAvail</u>, <u>runsAvailMap</u>. 
+    >
+    > 12. 图中标号: **13**, <u>handle</u>由一个long来表示, 将long中的64个bit位划分成了四个部分. 用来标识已经分配的空间或者空置的空间.
+    >
+    >     - 各个部分的信息:
+    >
+    >       |     Bit 位     |                    源码标识                    |       含义       |
+    >       | :------------: | :--------------------------------------------: | :--------------: |
+    >       | 0-31, 共 32bit | bitmapIdx of subpage, zero if it's not subpage |    房间标号,     |
+    >       |  32, 共 1bit   |                   isSubpage                    |  是否是共享区域  |
+    >       |  33, 共 1bit   |                     isUsed                     |   是否已经分配   |
+    >       | 34-48, 共15bit |                number of pages                 | 连续的房间有几间 |
+    >       | 49-63, 共15bit |            page offset in the chunk            |   从第几间开始   |
+    >
+    >     - 例如: 
+    >
+    >       |                            handle                            |                             说明                             |
+    >       | :----------------------------------------------------------: | :----------------------------------------------------------: |
+    >       | 0{11}_**0000** - 0{11}\_**0100** - **10** - 0{24}\_0000\_0000 | 0{11}\_**0000** -- 从第0个房间开始, 0{11}\_**0100** -- 连续4个房间, <br />**10** -- 处于使用状态, 独立区域. |
+    >       | 0{11}\_**0100** - 0{11}_**0010** - **00** - 0{24}\_0000\_0000 | 0{11}\_**0100** -- 从第4个房间开始, 0{11}\_**0010** -- 连续2个房间, <br />**00** -- 处于空置状态. |
+    >       | 0{11}\_**1001** - 0{11}_**0001** - **11** - 0{24}\_**0100\_0001** | 0{11}\_**1001** -- 从第9个房间开始, 0{11}\_**0001** -- 连续1个房间, <br />**11** -- 处于使用状态, 共享区域, 共享区域中的第1排第一个座位. |
+    >       | 0{11}_**0001_0101** - 000\_**0111_1110_1011** - **00** - 0{32} | 0{11}_**0001_0101** -- 从第21个房间开始, 000\_**0111_1110_1011** -- 连续2027个房间, <br />**00** -- 处于空置状态. |
+    >
+    > 
+    >
+    > ##### 管理信息: 
+    >
+    > 1. 图中标号: **101**, 将真正分配的内存空间(<u>memory</u>)按房间进行划分, 每一个房间给一个门牌号, 从0开始, 默认是到2047号.
+    >
+    > 2. 图中标号: **102**, <u>runsAvail</u>中存放连续房间的信息. 先根据连续房间的个数查找对应的runsAvail的index下标, 然后将描述这个区域的handle值放在index下标对应的*LongPriorityQueue*中.
+    >
+    >    - <u>runsAvail</u>每个index对应的连续房间数(pages)是一个区间(range), 
+    >
+    >      | runsAvail index | 对应连续pages, 表示最小有多少个连续房间. |
+    >      | :-------------: | :--------------------------------------: |
+    >      |        3        |             pages >= 4 & < 5             |
+    >      |        8        |            pages >= 10 & < 12            |
+    >      |       38        |          pages >= 1792 & < 2048          |
+    >      |       39        |               pages = 2048               |
+    >
+    >    - <u>runsAvail</u>只存放空置房间的信息, 按连续房间的大小, 对应存放在index下标对应的*LongPriorityQueue*中. 例如图中: 已经<u>占用</u>的房间分别是: <u>0 - 3</u> -- 分配成<u>独立</u>区域. 房间 <u>6, 9, 12, 18</u> 被分配为<u>共享</u>区域.空置的房间**4-5**, **7-8**, **10-11**, **19-2047** .
+    >
+    >      |       空置房间(起 止)       | 空置房间数 | 对应的runsAvail.index |                    handle标识                     |
+    >      | :-------------------------: | :--------: | :-------------------: | :-----------------------------------------------: |
+    >      |  4 - 5, 图中标号: **103**   |     2      |           1           |       0{11}\_0100 - 0{11}_0010 - 00 - 0{32}       |
+    >      |  7 - 8, 图中标号: **103**   |     2      |           1           |       0{11}\_0111 - 0{11}_0010 - 00 - 0{32}       |
+    >      | 10 - 11, 图中标号: **103**  |     2      |           1           |       0{11}\_1010 - 0{11}_0010 - 00 - 0{32}       |
+    >      |  13-17, 图中标号: **104**   |     5      |           4           |       0{11}\_1101 - 0{11}_0101 - 00 - 0{32}       |
+    >      | 21 -2047, 图中标号: **105** |    2027    |          38           | 0{11}_0001_0101 - 000_0111_1110_1011 - 00 - 0{32} |
+    >
+    >      
+    >
+    > 3. 图中标号: **106**, <u>runsAvailMap</u>: *LongLongHashMap* 存放的是空置空间的起止信息. 例如:
+    >
+    >    | Key  |                         Key 说明                         |                Value -- handle信息                |
+    >    | :--: | :------------------------------------------------------: | :-----------------------------------------------: |
+    >    |  4   |    图中标号: **107**, 空置空间 4 - 5, 从门牌号: 4开始    |       0{11}\_0100 - 0{11}_0010 - 00 - 0{32}       |
+    >    |  5   |    图中标号: **108**, 空置空间 4 - 5, 到门牌号: 5结束    |       0{11}\_0100 - 0{11}_0010 - 00 - 0{32}       |
+    >    |      |                                                          |                                                   |
+    >    |  21  | 图中标号: **109**, 空置空间 21 -2047, 从门牌号: 21个开始 | 0{11}_0001_0101 - 000_0111_1110_1011 - 00 - 0{32} |
+    >    | 2047 | 图中标号: **110**, 空置空间 21 -2047, 到门牌号: 2047结束 | 0{11}_0001_0101 - 000_0111_1110_1011 - 00 - 0{32} |
+    >
+    >    注: runsAvailMap的一个应用场景是查找与当前的区域相临的区域是空置还是已经分配的, 用在区域中.
+    >
+    > 4. 图中标号: **111**, subpages: PoolSubpage[2048], 这里按房间的个数来初始化数组, 实际上可能有很多个下标对应的null值. 当一个共享区域(*PoolSubpage*)被分配时, 可能是多个房间划分到这个共享区域下, 共享区域开始于那个门牌号, 那么就存放在门牌号对应的index下标下. 例如:
+    >
+    >    | <u>subpages</u>.index |                     对应共享区域                      |             *PoolSubpage*             |
+    >    | :-------------------: | :---------------------------------------------------: | :-----------------------------------: |
+    >    |           6           |  图中标号: **112**, 共享区域 6 - 6, 从门牌号: 6开始   |    每个elemSize为32, 共享区域为8K     |
+    >    |           9           |  图中标号: **113**, 共享区域 9 - 9, 从门牌号: 9开始   |   每个elemSize为1024, 共享区域为8K    |
+    >    |          18           | 图中标号: **114**, 共享区域 18 - 20, 从门牌号: 18开始 | 每个elemSize为1024 * 3, 共享区域为24K |
+    >
+    >    
+    >
+    > 5. 图中标号: **10**
+    >
+    > 6. 图中标号: **10**
+    >
+    > 7. 图中标号: **10**
+    >
+    > 8. 
 
